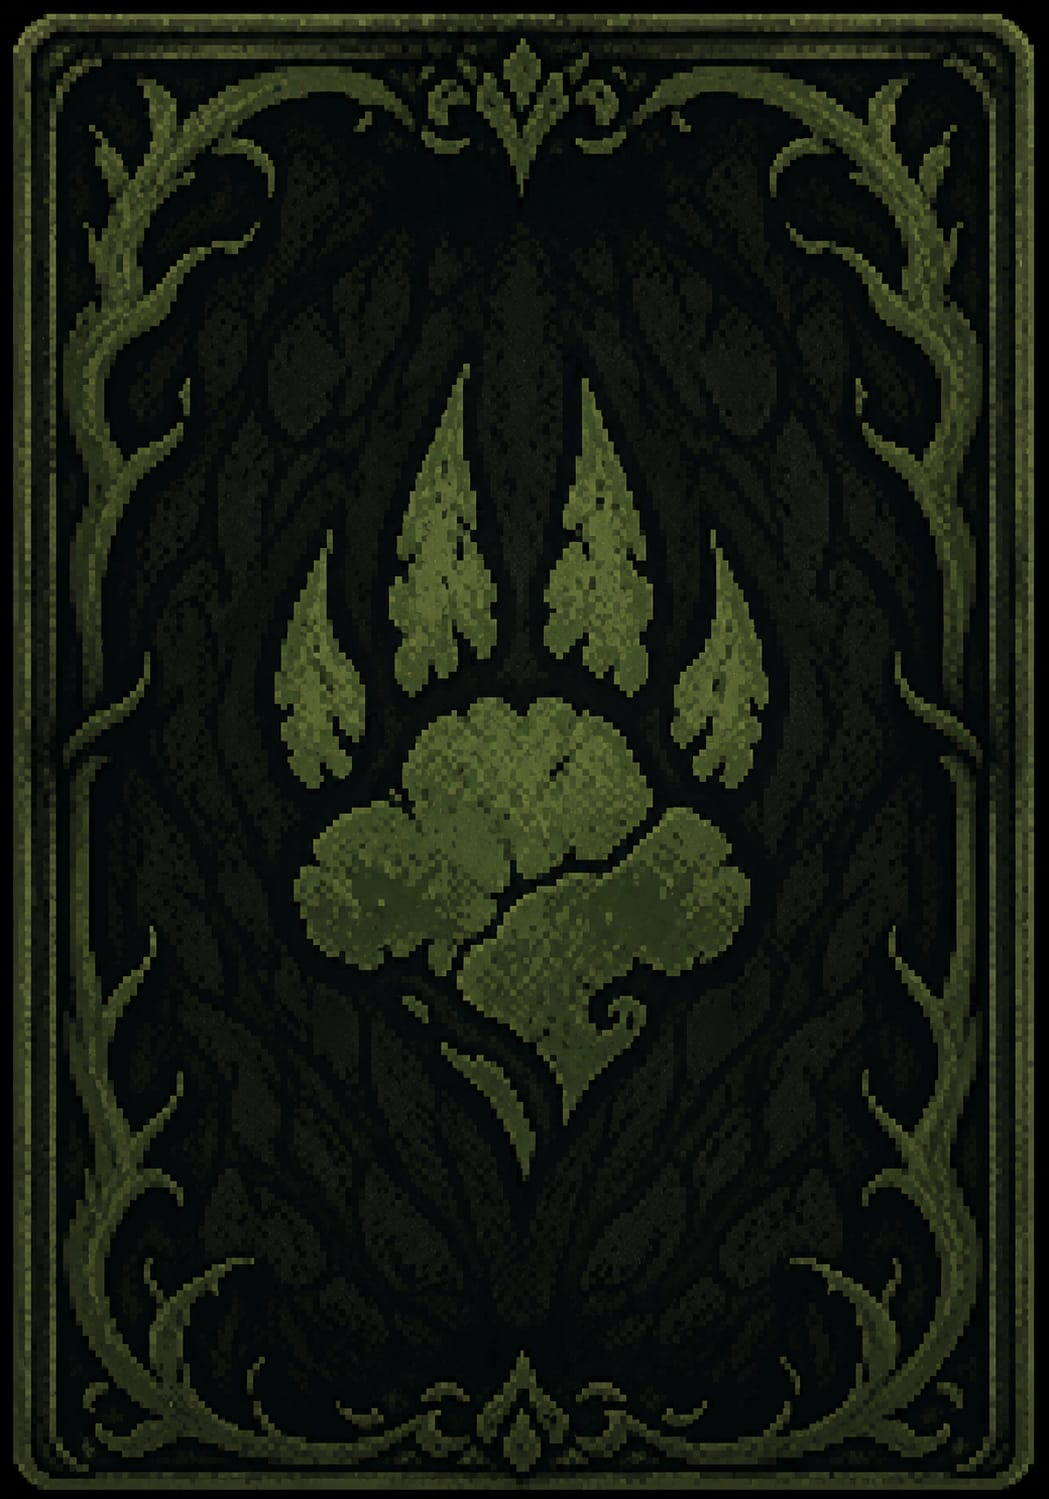
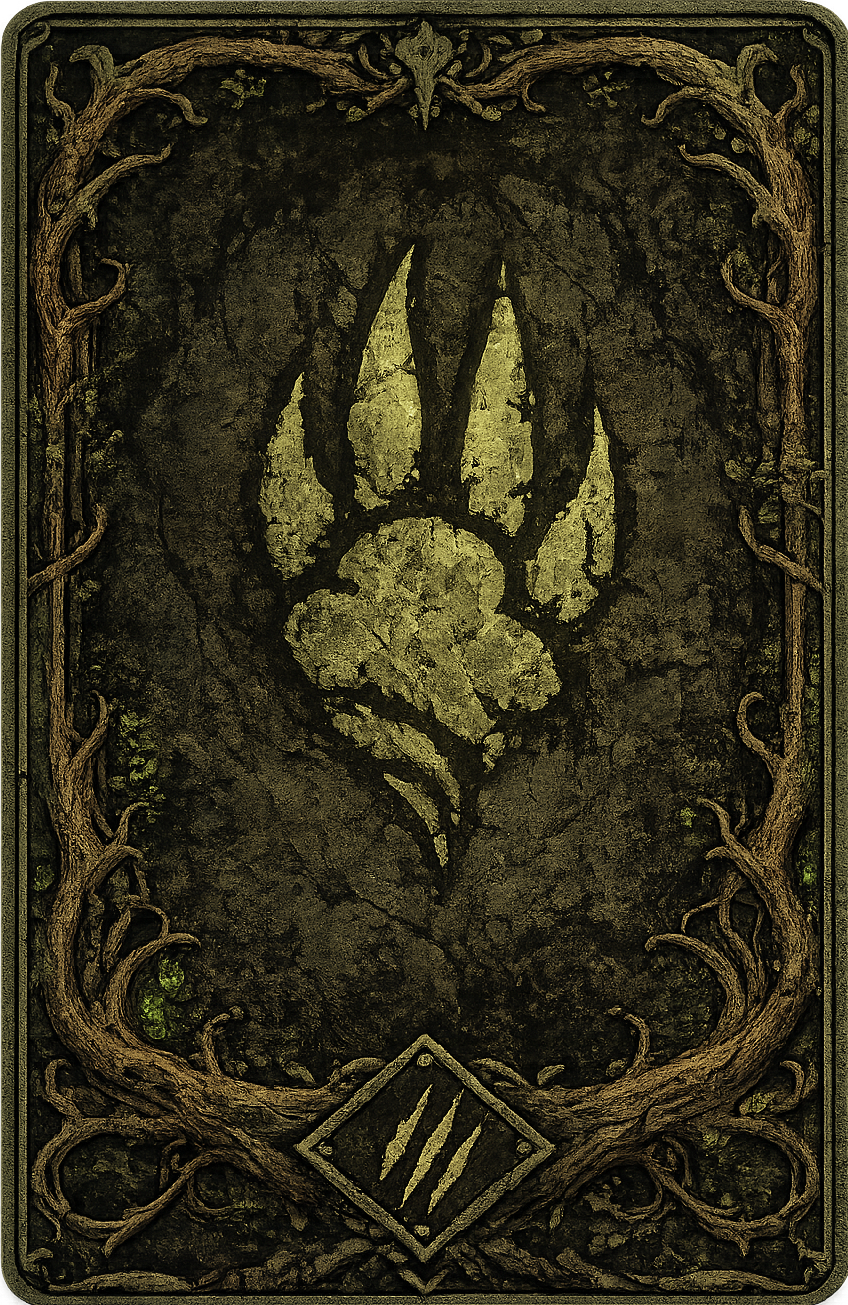
feature: new card art/frames, per-scene backgrounds, and roundcorner mask fix
- Cover-fit card artwork on the full-bleed frames instead of stretching it into a fixed window; text/badges repositioned to match (name, cost, type, atk/def)
- Mask card art to the frame's rounded-rect shape as a real scene-graph child (not just an assigned .mask) — an unparented mask's transform didn't reliably follow the card at every scale/context (e.g. the enlarged hand-card preview), rendering solid black instead of transparent corners
- Add per-scene background system (BaseScene.setBackground) wired per scene: main menu, deck builder, match (both quick play and tower fights share it), and the tower map
- Add remaining beast card art, plus Aki/Trilly cards in beast.json

diff --git a/src/render/CardView.ts b/src/render/CardView.ts
@@ -6,9 +6,30 @@ import { FRAME_STYLES } from "./frames";
 
 export const CARD_WIDTH = 140;
 export const CARD_HEIGHT = 200;
-/** Rettangolo riservato all'illustrazione centrale, nelle stesse unità della carta (base 140×200). */
-export const ART_WINDOW = { x: 8, y: 58, width: 124, height: 86 };
 const LONG_PRESS_MS = 450;
+const CARD_CORNER_RADIUS = 10;
+
+/** Stessa sagoma arrotondata della cornice/dell'outline: senza maschera l'arte "cover" (rettangolare, angoli scuri per il vignette) sporgerebbe oltre gli angoli tondi mostrando pixel neri invece della trasparenza verso lo sfondo del lane. */
+function createCardMask(): Graphics {
+  return new Graphics().roundRect(0, 0, CARD_WIDTH, CARD_HEIGHT, CARD_CORNER_RADIUS).fill(0xffffff);
+}
+
+/**
+ * Le nuove cornici sono illustrazioni a piena carta con una finestra trasparente ritagliata al
+ * centro (forma libera, non un rettangolo): l'arte sotto viene "mascherata" gratis dalle parti
+ * opache della cornice sopra di essa, quindi qui basta coprire l'intera carta in "cover" (scala
+ * uniforme, nessuno stiracchiamento) invece di adattarsi a un rettangolo fisso — quel che sporge
+ * oltre la finestra viene semplicemente coperto dal bordo dipinto sopra.
+ */
+function fitArtCover(sprite: Sprite, texture: Texture): void {
+  const scale = Math.max(CARD_WIDTH / texture.width, CARD_HEIGHT / texture.height);
+  sprite.width = texture.width * scale;
+  sprite.height = texture.height * scale;
+  sprite.position.set((CARD_WIDTH - sprite.width) / 2, (CARD_HEIGHT - sprite.height) / 2);
+}
+
+/** Alone nero morbido dietro al testo: lo rende leggibile sopra l'illustrazione a piena carta senza pannelli opachi. */
+const TEXT_SHADOW = { color: 0x000000, blur: 3, distance: 0, alpha: 0.9 } as const;
 
 export class CardView extends Container {
   readonly instance: CardInstance;
@@ -25,11 +46,16 @@ export class CardView extends Container {
 
     const artPath = getCardArt(data.id);
     if (artPath) {
-      const art = new Sprite(Texture.from(artPath));
-      art.position.set(ART_WINDOW.x, ART_WINDOW.y);
-      art.width = ART_WINDOW.width;
-      art.height = ART_WINDOW.height;
-      this.addChild(art);
+      const texture = Texture.from(artPath);
+      const art = new Sprite(texture);
+      fitArtCover(art, texture);
+      // La maschera va aggiunta come figlio (non solo assegnata a `.mask`): da sola, senza un
+      // genitore proprio, la sua trasformazione non segue in modo affidabile la scala di `CardView`
+      // fuori dal caso semplice (es. nell'anteprima carta ingrandita 1.8x) — Pixi non ridisegna un
+      // figlio usato come maschera del suo stesso genitore, quindi non compare come rettangolo bianco.
+      const artMask = createCardMask();
+      art.mask = artMask;
+      this.addChild(art, artMask);
     }
 
     const framePath = getCardFrame(data.type);
@@ -40,21 +66,26 @@ export class CardView extends Container {
       this.addChild(frame);
     } else {
       const frame = new Graphics()
-        .roundRect(0, 0, CARD_WIDTH, CARD_HEIGHT, 10)
+        .roundRect(0, 0, CARD_WIDTH, CARD_HEIGHT, CARD_CORNER_RADIUS)
         .fill(style.fill)
         .stroke({ width: 3, color: style.stroke });
       this.addChild(frame);
     }
 
+    // Angolo in alto a sinistra: sulle nuove cornici è un ornamento (viticci/innesto), simmetrico
+    // al distintivo del costo sull'altro angolo — nessun pannello piatto sotto, quindi testo con
+    // alone invece di sfondo pieno.
     const typeLabel = new Text({
       text: style.label,
-      style: { fontFamily: "sans-serif", fontSize: 10, fill: style.stroke },
+      style: { fontFamily: "sans-serif", fontSize: 10, fill: style.stroke, dropShadow: TEXT_SHADOW },
     });
-    typeLabel.position.set(8, 6);
+    typeLabel.position.set(10, 9);
     this.addChild(typeLabel);
 
+    // Angolo in alto a destra: sulla cornice robot è proprio l'incasso circolare previsto per un
+    // gemma/distintivo; sulla cornice bestia è il nodo dei rovi, stesso posto funziona comunque.
     const costBadge = new Graphics()
-      .circle(CARD_WIDTH - 16, 16, 13)
+      .circle(CARD_WIDTH - 18, 22, 13)
       .fill({ color: 0x111318, alpha: 0.9 })
       .stroke({ width: 2, color: 0xffe082 });
     this.addChild(costBadge);
@@ -64,21 +95,26 @@ export class CardView extends Container {
       style: { fontFamily: "sans-serif", fontSize: 14, fontWeight: "bold", fill: 0xffe082 },
     });
     costText.anchor.set(0.5);
-    costText.position.set(CARD_WIDTH - 16, 16);
+    costText.position.set(CARD_WIDTH - 18, 22);
     this.addChild(costText);
 
+    // Nome ed eventuali modificatori vivono ora sopra l'illustrazione a piena carta, appena sopra
+    // la fascia inferiore dove la cornice si richiude nel gioiello a diamante: fuori da quella zona
+    // decorativa, ma ancora dentro la finestra "aperta" dell'illustrazione.
     const name = new Text({
       text: data.name,
       style: {
         fontFamily: "sans-serif",
-        fontSize: 14,
+        fontSize: 13,
         fontWeight: "bold",
         fill: 0xffffff,
+        align: "center",
         wordWrap: true,
-        wordWrapWidth: CARD_WIDTH - 16,
+        wordWrapWidth: CARD_WIDTH - 20,
+        dropShadow: TEXT_SHADOW,
       },
     });
-    name.position.set(8, 22);
+    name.position.set((CARD_WIDTH - name.width) / 2, 148);
     this.addChild(name);
 
     if (data.modifiers.length > 0) {
@@ -91,26 +127,36 @@ export class CardView extends Container {
           fontFamily: "sans-serif",
           fontSize: 9,
           fill: 0xd8d8d8,
+          align: "center",
           wordWrap: true,
-          wordWrapWidth: CARD_WIDTH - 16,
+          wordWrapWidth: CARD_WIDTH - 20,
+          dropShadow: TEXT_SHADOW,
         },
       });
-      modifiers.position.set(8, CARD_HEIGHT - 54);
+      modifiers.position.set((CARD_WIDTH - modifiers.width) / 2, name.position.y - modifiers.height - 2);
       this.addChild(modifiers);
     }
 
+    // Attacco/difesa negli angoli inferiori: sulla cornice robot cadono sugli incassi circolari,
+    // sulla bestia sul nodo di rovi — stessi angoli usati sopra per costo/tipo.
     const attack = new Text({
       text: instance.attackText,
-      style: { fontFamily: "sans-serif", fontSize: 18, fontWeight: "bold", fill: 0xff8a65 },
+      style: { fontFamily: "sans-serif", fontSize: 18, fontWeight: "bold", fill: 0xff8a65, dropShadow: TEXT_SHADOW },
     });
-    attack.position.set(10, CARD_HEIGHT - 26);
+    attack.position.set(14, CARD_HEIGHT - 30);
     this.addChild(attack);
 
     const defense = new Text({
       text: instance.defenseText,
-      style: { fontFamily: "sans-serif", fontSize: 18, fontWeight: "bold", fill: instance.isDamaged ? 0xff5252 : 0x81d4fa },
+      style: {
+        fontFamily: "sans-serif",
+        fontSize: 18,
+        fontWeight: "bold",
+        fill: instance.isDamaged ? 0xff5252 : 0x81d4fa,
+        dropShadow: TEXT_SHADOW,
+      },
     });
-    defense.position.set(CARD_WIDTH - 10 - defense.width, CARD_HEIGHT - 26);
+    defense.position.set(CARD_WIDTH - 14 - defense.width, CARD_HEIGHT - 30);
     this.addChild(defense);
 
     this.outline = new Graphics();

diff --git a/src/app/scenes/BaseScene.ts b/src/app/scenes/BaseScene.ts
@@ -1,4 +1,5 @@
-import { Container } from "pixi.js";
+import { Container, Sprite, Texture } from "pixi.js";
+import { preloadSceneBackground } from "../../render/sceneBackgrounds";
 import type { Scene, SceneContext } from "../SceneManager";
 
 /**
@@ -10,6 +11,7 @@ import type { Scene, SceneContext } from "../SceneManager";
 export abstract class BaseScene implements Scene {
   protected context!: SceneContext;
   protected readonly container = new Container();
+  private backgroundSprite: Sprite | null = null;
 
   async mount(context: SceneContext): Promise<void> {
     this.context = context;
@@ -30,7 +32,10 @@ export abstract class BaseScene implements Scene {
     this.context.hudRoot.innerHTML = "";
   }
 
-  private readonly handleResize = (): void => this.layout();
+  private readonly handleResize = (): void => {
+    this.fitBackground();
+    this.layout();
+  };
 
   /** Costruisce i contenuti della scena (container Pixi, HUD in `context.hudRoot`, listener). */
   protected onMount(): void | Promise<void> {}
@@ -40,4 +45,32 @@ export abstract class BaseScene implements Scene {
 
   /** Riposiziona/ridimensiona i contenuti per lo schermo corrente; chiamata al mount e a ogni resize. */
   protected abstract layout(): void;
+
+  /**
+   * Sfondo dedicato della scena, se `src/assets/ui/backgrounds/<key>.png` esiste — ogni scena ha
+   * la sua chiave, così ognuna può avere un'immagine diversa (o nessuna). Va chiamato da `onMount`;
+   * resta sotto a tutto il resto perché è il primo figlio del container, e si adatta da solo allo
+   * schermo (modalità "cover": riempie senza deformarsi, ritagliando l'eccesso) a ogni resize.
+   */
+  protected async setBackground(key: string): Promise<void> {
+    const path = await preloadSceneBackground(key);
+    if (!path) return;
+    this.backgroundSprite?.destroy();
+    this.backgroundSprite = new Sprite(Texture.from(path));
+    this.container.addChildAt(this.backgroundSprite, 0);
+    this.fitBackground();
+  }
+
+  private fitBackground(): void {
+    if (!this.backgroundSprite) return;
+    const { width, height } = this.context.app.screen;
+    const texture = this.backgroundSprite.texture;
+    const scale = Math.max(width / texture.width, height / texture.height);
+    this.backgroundSprite.width = texture.width * scale;
+    this.backgroundSprite.height = texture.height * scale;
+    this.backgroundSprite.position.set(
+      (width - this.backgroundSprite.width) / 2,
+      (height - this.backgroundSprite.height) / 2,
+    );
+  }
 }

diff --git a/src/render/sceneBackgrounds.ts b/src/render/sceneBackgrounds.ts
@@ -1,0 +1,21 @@
+import { Assets } from "pixi.js";
+
+// Stesso approccio data-driven di `cardAssets.ts`: basta aggiungere un file con il nome giusto
+// (uno per scena, es. `match.png`) in questa cartella, senza toccare il codice.
+const backgroundModules = import.meta.glob<{ default: string }>("../assets/ui/backgrounds/*.png", { eager: true });
+
+function lookup(key: string): string | undefined {
+  return backgroundModules[`../assets/ui/backgrounds/${key}.png`]?.default;
+}
+
+/** Sfondo di una scena (per chiave, es. "match"). Nessuno sfondo dedicato: la scena resta sul colore di base dell'app. */
+export function getSceneBackground(key: string): string | undefined {
+  return lookup(key);
+}
+
+/** Come `preloadCardTextures`: `Texture.from` non carica da solo un URL non ancora registrato. */
+export async function preloadSceneBackground(key: string): Promise<string | undefined> {
+  const path = lookup(key);
+  if (path) await Assets.load(path);
+  return path;
+}

diff --git a/src/main.ts b/src/main.ts
@@ -1,8 +1,14 @@
 import "./style.css";
 import { SceneManager } from "./app/SceneManager";
 import { MainMenuScene } from "./app/scenes/MainMenuScene";
+import { preloadCardTextures } from "./render/cardAssets";
 
 const appContainer = document.querySelector<HTMLDivElement>("#app")!;
 const hudRoot = document.querySelector<HTMLDivElement>("#hud-root")!;
 const manager = new SceneManager(hudRoot);
-void manager.init(appContainer, () => new MainMenuScene());
+
+// Precaricate una volta qui, non per-scena: `Texture.from` non avvia da solo il caricamento di un
+// URL non ancora registrato (vedi `cardAssets.ts`), e più scene creano `CardView` senza mai
+// precaricare (DeckBuilder, ricompense torre...). Farlo qui garantisce che ogni `CardView`, ovunque
+// nell'app, trovi già pronte le texture di arte/cornici.
+void preloadCardTextures().then(() => manager.init(appContainer, () => new MainMenuScene()));

diff --git a/src/app/scenes/MatchScene.ts b/src/app/scenes/MatchScene.ts
@@ -18,7 +18,6 @@ import { Deck } from "../../game/Deck";
 import { getPlayerProfile } from "../../game/PlayerProfile";
 import { HandView, HAND_SCALE } from "../../hand/HandView";
 import { dealCardFlight } from "../../render/animations";
-import { preloadCardTextures } from "../../render/cardAssets";
 import { CARD_HEIGHT, CARD_WIDTH, CardView } from "../../render/CardView";
 import { OverlayPanel } from "../../render/OverlayPanel";
 import type { SceneContext } from "../SceneManager";
@@ -105,7 +104,7 @@ export class MatchScene extends BaseScene implements BoardInteractionHost {
 
   protected async onMount(): Promise<void> {
     this.app = this.context.app;
-    await preloadCardTextures();
+    await this.setBackground("match");
 
     this.board = new Board(SLOT_COUNT);
     this.container.addChild(this.board);

diff --git a/src/app/scenes/DeckBuilderScene.ts b/src/app/scenes/DeckBuilderScene.ts
@@ -50,7 +50,8 @@ export class DeckBuilderScene extends BaseScene {
     this.container.addChild(this.headerText, this.collectionSectionLabel, this.deckSectionLabel);
   }
 
-  protected onMount(): void {
+  protected async onMount(): Promise<void> {
+    await this.setBackground("deck-builder");
     this.buildTabs();
     this.rebuildGrids();
     this.buildHud(this.context.hudRoot);

diff --git a/src/app/scenes/TowerMapScene.ts b/src/app/scenes/TowerMapScene.ts
@@ -49,7 +49,8 @@ export class TowerMapScene extends BaseScene {
     this.container.addChild(this.edgesGraphics, this.headerText);
   }
 
-  protected onMount(): void {
+  protected async onMount(): Promise<void> {
+    await this.setBackground("board");
     this.buildNodes();
   }
 

diff --git a/src/app/scenes/MainMenuScene.ts b/src/app/scenes/MainMenuScene.ts
@@ -50,7 +50,8 @@ export class MainMenuScene extends BaseScene {
     return link;
   }
 
-  protected onMount(): void {
+  protected async onMount(): Promise<void> {
+    await this.setBackground("main");
     this.buildTiles();
   }
 
